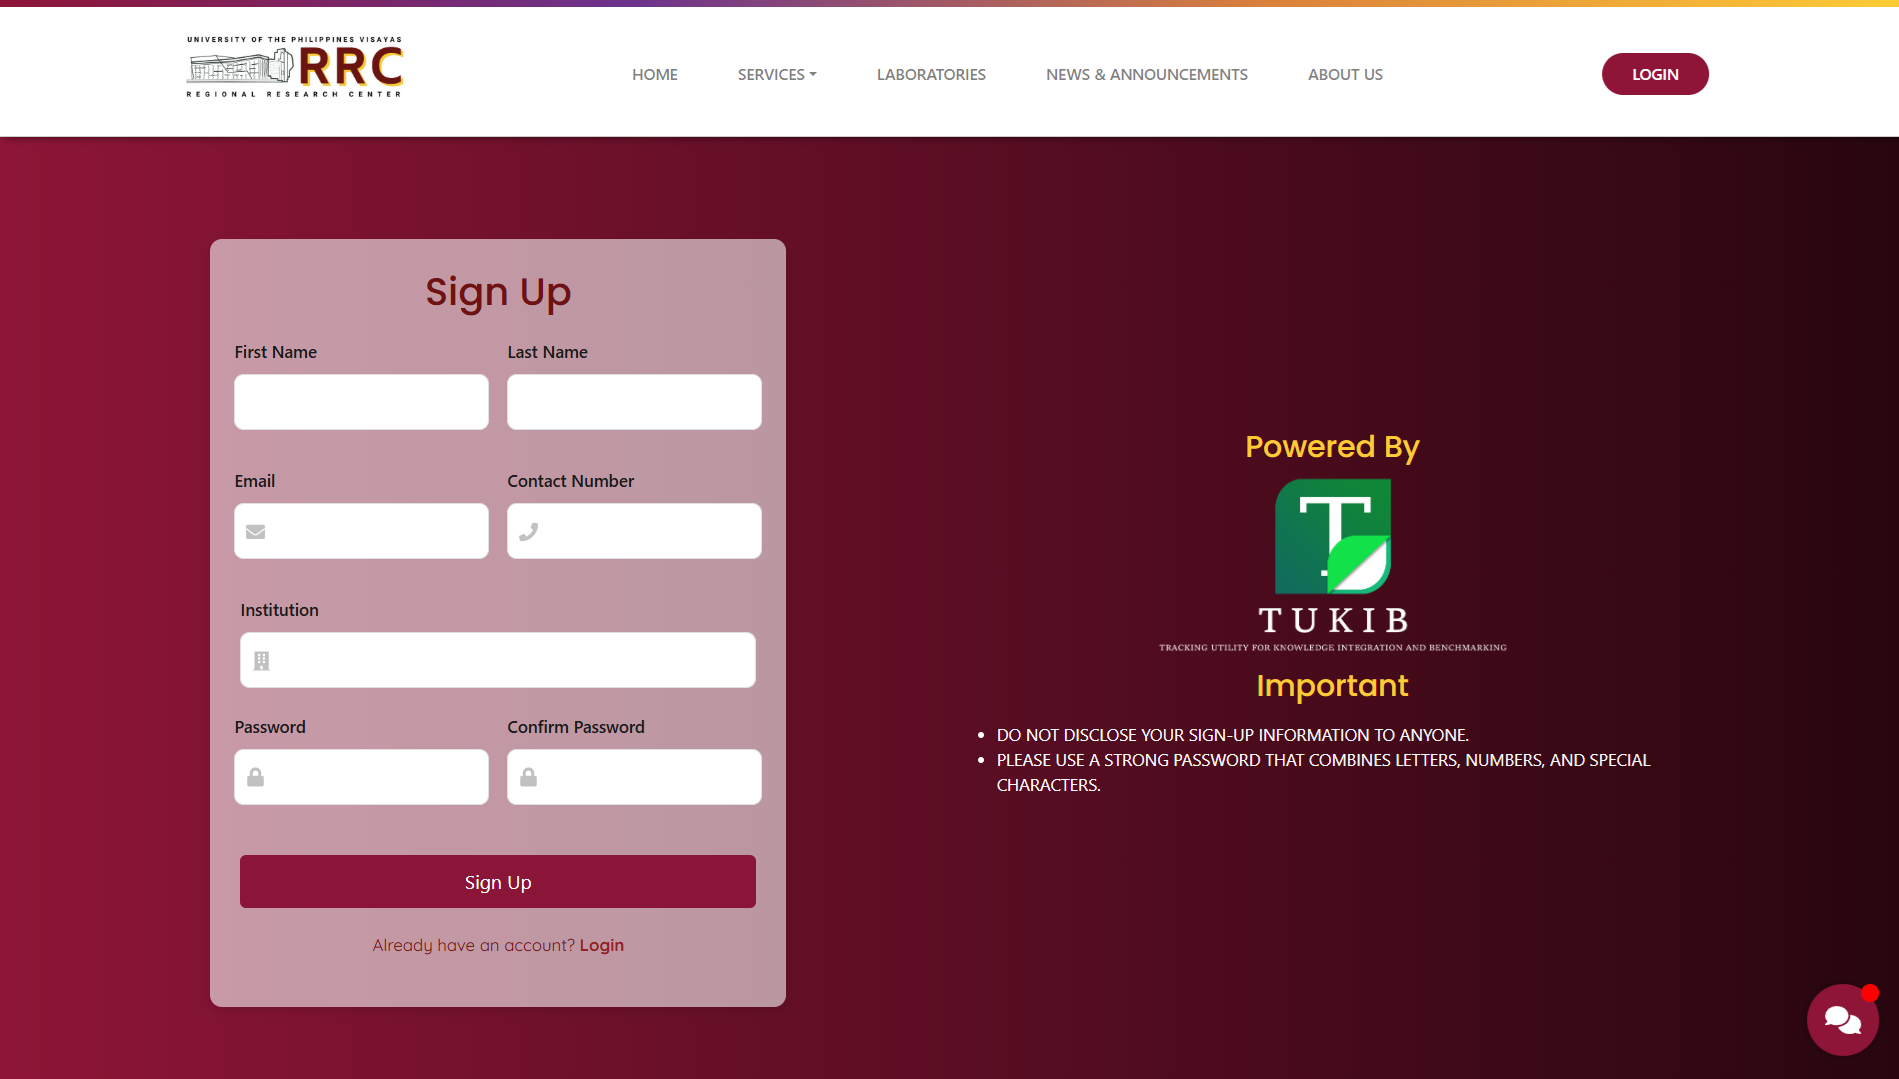
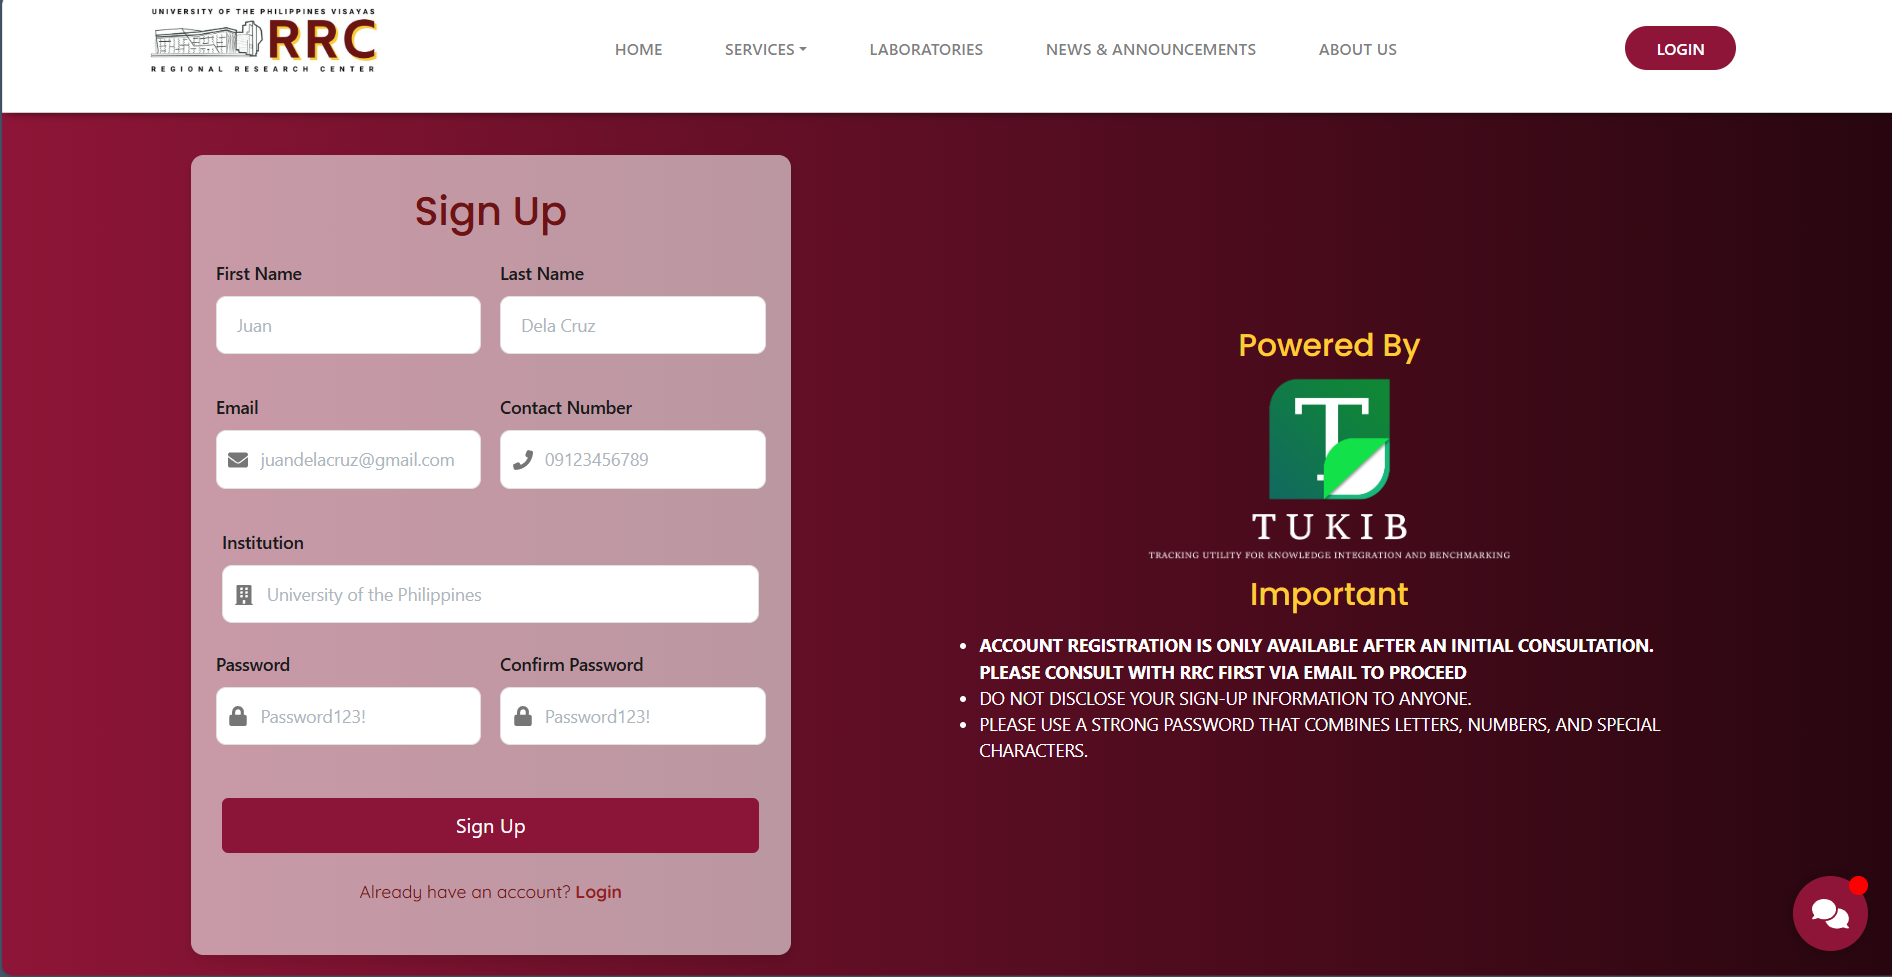
updated paper and added images

Changed region(s): [[0.0, 0.0, 1.0, 1.0], [0.4989, 0.3378, 0.8732, 0.7984]]

diff --git a/TUKIB Paper/chapter_4.tex b/TUKIB Paper/chapter_4.tex
@@ -103,6 +103,20 @@ For other staff members like University Researchers and TECD Staff, their dashbo
 
 Clients can create their own accounts through the sign in page. However, by default, these accounts will remain inactive until the Admin Staff approves them after reviewing their information. An additional step is required in which they must undergo an initial consultation with the staff. Only after this consultation will their account be permitted to submit a service request. This process ensures that new clients are informed about the proper procedures for requesting a service, as consultation is a necessary step.
 
+To reinforce this requirement, as shown on figure \figref{fig:signup_popup}, a pop-up reminder is shown when the sign-up page loads, displaying the message: 
+\textit{"Note: Before signing up, please make sure you have completed the initial consultation with RRC. This step is required to proceed with account creation."}
+Users, are required to acknowledge this reminder by clicking the "Ok, I Understand" button before they proceed with the sign-up process.
+Additionally, a reminder is displayed beside the sign up form stating: 
+\textit{"ACCOUNT REGISTRATION IS ONLY AVAILABLE AFTER AN INITIAL CONSULTATION. PLEASE CONSULT WITH RRC FIRST VIA EMAIL TO PROCEED."} 
+These ensure that users are aware of the necessary steps before creating an account, thus preventing premature registrations without prior consultation.
+
+\begin{figure}[h]
+	\centering 
+	\includegraphics[width=0.8\textwidth]{signup_popup.png}
+	\caption{Sign-Up Pop-Up Reminder}
+	\label{fig:signup_popup}
+\end{figure}
+
 As shown in \figref{fig:signup_page}, the sign-up page collects essential information such as the client's full name, email (used to notify them when their account is approved and becomes active), contact number, institution, and a password. This ensures that the system gathers all relevant details needed for account verification and further communication. Proper input validation mechanisms are also in place to ensure data integrity—for example, email addresses must be unique to prevent duplicate accounts, and all required fields must be properly filled before submission.
 
 On the other hand, staff accounts are pre-made by the Admin Staff. This approach ensures that only authorized personnel are granted access to the system’s internal functions, promoting security and controlled user management.
@@ -130,6 +144,17 @@ On the login page, users need to enter their email address and password. Additio
 \subsection{Service Request Module}
 
 One of the core features of TUKIB is the Service Request Module, which enables both clients and staff to efficiently access, track, and manage service requests through their respective accounts. Clients can submit service requests, monitor the status of their requests, upload payment receipts, view results, and provide feedback to the UPV Regional Research Center. On the other hand, staff members have the capability to approve or reject requests, update request statuses, upload charge slips and results, and review payment receipts submitted by clients. This bidirectional functionality ensures that each request is processed smoothly from initiation to completion.
+
+The service request form, shown in \figref{fig:service_request_form}, is designed to be user-friendly and intuitive. It includes fields for entering the type of service requested, a description of the request, and all other necessary information required by the RRC. The form also features tooltips and placeholder texts to guide users in filling out the necessary information correctly. This helps reduce errors and ensures that all required details are provided before submission.
+
+\begin{figure}[h]
+	\centering 
+	\includegraphics[width=0.75\textwidth]{form_tooltips_placeholders.png}
+	\caption{Service Request Form Showing Tooltips and Placeholder Texts}
+	\label{fig:form_tooltips_placeholders}
+\end{figure}
+
+\newpage
 
 \figref{fig:service_request_details} displays the full service request details page. This page contains comprehensive information about a specific request and is accessible to both clients and staff, depending on their role. It includes key details such as the type of service requested, current status, payment information, and required documents. A progress indicator is also provided to help both parties track the current stage of the request.
 
